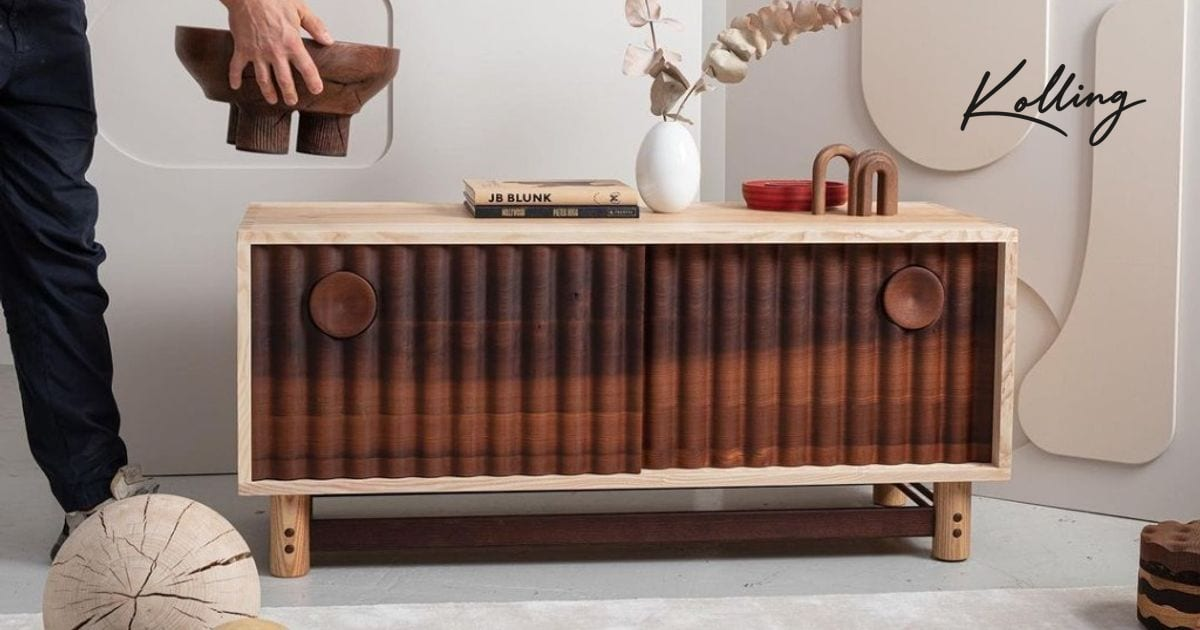
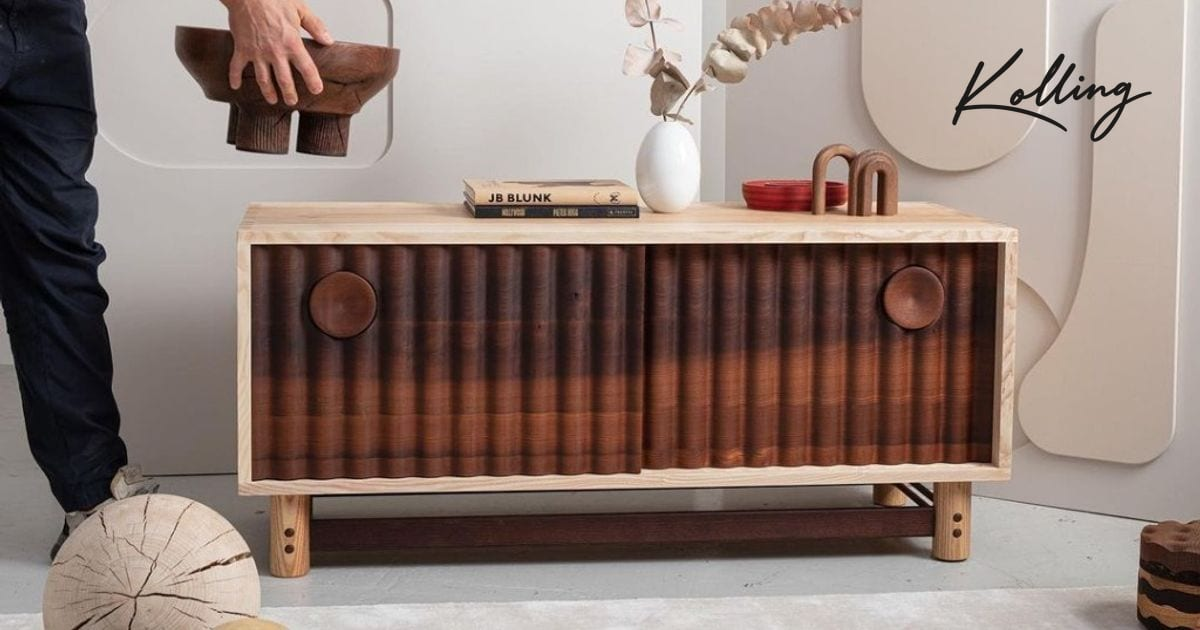
fix: paginakop sticky met gecentreerd woordmerk

Changed region(s): [[0.7708, 0.0905, 0.9558, 0.2413]]

diff --git a/src/design/tokens.gegenereerd.ts b/src/design/tokens.gegenereerd.ts
@@ -282,7 +282,6 @@ export const tokens: readonly Token[] = [
   { naam: 'navigatie-voorgrond-rust', pad: 'navigatie.voorgrond-rust', laag: 'componenten', waarde: "#4a4844" },
   { naam: 'navigatie-voorgrond-gedimd', pad: 'navigatie.voorgrond-gedimd', laag: 'componenten', waarde: "#4a4844" },
   { naam: 'navigatie-lijn', pad: 'navigatie.lijn', laag: 'componenten', waarde: "#e3e0d9" },
-  { naam: 'navigatie-laag', pad: 'navigatie.laag', laag: 'componenten', waarde: "10" },
   { naam: 'navigatie-indicator-afstand', pad: 'navigatie.indicator-afstand', laag: 'componenten', waarde: "0.25rem" },
   { naam: 'navigatie-indicator-dikte', pad: 'navigatie.indicator-dikte', laag: 'componenten', waarde: "1px" },
   { naam: 'navigatie-lijn-actief', pad: 'navigatie.lijn-actief', laag: 'componenten', waarde: "#1b1a18" },
@@ -297,9 +296,17 @@ export const tokens: readonly Token[] = [
   { naam: 'pagina-blok-ruimte', pad: 'pagina.blok-ruimte', laag: 'componenten', waarde: "2rem" },
   { naam: 'pagina-blok-ruimte-breed', pad: 'pagina.blok-ruimte-breed', laag: 'componenten', waarde: "1rem" },
   { naam: 'pagina-micro-ruimte', pad: 'pagina.micro-ruimte', laag: 'componenten', waarde: "1.5rem" },
-  { naam: 'pagina-kopruimte-breed', pad: 'pagina.kopruimte-breed', laag: 'componenten', waarde: "2rem" },
-  { naam: 'merk-hoogte', pad: 'merk.hoogte', laag: 'componenten', waarde: "2.1875rem" },
-  { naam: 'merk-hoogte-breed', pad: 'merk.hoogte-breed', laag: 'componenten', waarde: "2.5rem" },
+  { naam: 'merk-hoogte', pad: 'merk.hoogte', laag: 'componenten', waarde: "1.375rem" },
+  { naam: 'merk-hoogte-breed', pad: 'merk.hoogte-breed', laag: 'componenten', waarde: "1.75rem" },
+  { naam: 'kop-padding-blok', pad: 'kop.padding-blok', laag: 'componenten', waarde: "1.25rem" },
+  { naam: 'kop-kolom-ruimte', pad: 'kop.kolom-ruimte', laag: 'componenten', waarde: "1.5rem" },
+  { naam: 'kop-hoogte', pad: 'kop.hoogte', laag: 'componenten', waarde: "calc(1.375rem + 1.25rem * 2)" },
+  { naam: 'kop-hoogte-breed', pad: 'kop.hoogte-breed', laag: 'componenten', waarde: "calc(1.75rem + 1.25rem * 2)" },
+  { naam: 'kop-drempel', pad: 'kop.drempel', laag: 'componenten', waarde: "8px" },
+  { naam: 'kop-laag', pad: 'kop.laag', laag: 'componenten', waarde: "10" },
+  { naam: 'kop-achtergrond', pad: 'kop.achtergrond', laag: 'componenten', waarde: "#faf9f7" },
+  { naam: 'kop-lijn', pad: 'kop.lijn', laag: 'componenten', waarde: "#e3e0d9" },
+  { naam: 'kop-lijn-dikte', pad: 'kop.lijn-dikte', laag: 'componenten', waarde: "1px" },
   { naam: 'statement-cap', pad: 'statement.cap', laag: 'componenten', waarde: "8.9cqi" },
   { naam: 'statement-cap-breed', pad: 'statement.cap-breed', laag: 'componenten', waarde: "7.4cqi" },
   { naam: 'statement-cap-naast-beeld', pad: 'statement.cap-naast-beeld', laag: 'componenten', waarde: "4.4cqi" },

diff --git a/src/styles/tokens.css b/src/styles/tokens.css
@@ -123,8 +123,8 @@
   --navigatie-hoogte: 5rem;
   --navigatie-aanraakdoel: 2.75rem;
   --link-onderstreping-afstand: 0.15em;
-  --merk-hoogte: 2.1875rem;
-  --merk-hoogte-breed: 2.5rem;
+  --merk-hoogte: 1.375rem;
+  --merk-hoogte-breed: 1.75rem;
   --statement-cap: 8.9cqi;
   --statement-cap-breed: 7.4cqi;
   --statement-cap-naast-beeld: 4.4cqi;
@@ -248,7 +248,6 @@
   --menu-trap: var(--k-beweging-trap-snel);
   --navigatie-spatiering: var(--k-letter-spatiering-kapitaal);
   --navigatie-ruimte: var(--k-ruimte-6);
-  --navigatie-laag: var(--k-laag-kop);
   --navigatie-indicator-afstand: var(--k-ruimte-1);
   --navigatie-indicator-dikte: var(--k-rand-haarlijn);
   --link-onderstreping-dikte: var(--k-rand-haarlijn);
@@ -257,7 +256,13 @@
   --pagina-blok-ruimte: var(--k-ruimte-8);
   --pagina-blok-ruimte-breed: var(--k-ruimte-4);
   --pagina-micro-ruimte: var(--k-ruimte-6);
-  --pagina-kopruimte-breed: var(--k-ruimte-8);
+  --kop-padding-blok: var(--k-ruimte-5);
+  --kop-kolom-ruimte: var(--k-ruimte-6);
+  --kop-hoogte: calc(var(--merk-hoogte) + var(--k-ruimte-5) * 2);
+  --kop-hoogte-breed: calc(var(--merk-hoogte-breed) + var(--k-ruimte-5) * 2);
+  --kop-drempel: var(--k-beweging-afstand-sm);
+  --kop-laag: var(--k-laag-kop);
+  --kop-lijn-dikte: var(--k-rand-haarlijn);
   --beeld-achtergrond: var(--kleur-achtergrond-tint);
   --bijschrift-grootte: var(--tekst-label-grootte);
   --bijschrift-spatiering: var(--tekst-label-spatiering);
@@ -298,4 +303,6 @@
   --navigatie-overgang: var(--beweging-menu);
   --link-onderstreping-kleur: var(--kleur-lijn);
   --link-onderstreping-kleur-hover: var(--kleur-voorgrond);
+  --kop-achtergrond: var(--kleur-achtergrond);
+  --kop-lijn: var(--kleur-lijn);
 }

diff --git a/src/styles/basis.css b/src/styles/basis.css
@@ -75,7 +75,9 @@ body {
   overscroll-behavior: none;
 }
 
-/* Elke pagina is hetzelfde scherm: koprij, middelste rij, contactrij. */
+/* Elke pagina is hetzelfde scherm: koprij, middelste rij, contactrij. De
+   koprij draagt zelf haar bovenpadding, zodat ze bij het scrollen op haar
+   rustpositie blijft plakken in plaats van naar de bovenrand te verspringen. */
 .pagina {
   display: grid;
   grid-template-rows: auto 1fr auto;
@@ -84,12 +86,14 @@ body {
   inline-size: 100%;
   max-inline-size: var(--maat-container);
   margin-inline: auto;
-  padding: var(--pagina-padding);
+  padding-inline: var(--pagina-padding);
+  padding-block-end: var(--pagina-padding);
 }
 
 @media (min-width: 48rem) {
   .pagina {
-    padding: var(--pagina-padding-breed);
+    padding-inline: var(--pagina-padding-breed);
+    padding-block-end: var(--pagina-padding-breed);
   }
 }
 
@@ -103,6 +107,17 @@ body {
   color-scheme: light;
   -webkit-text-size-adjust: 100%;
   text-size-adjust: 100%;
+}
+
+/* Een ankerlink landt onder de sticky kop, niet erachter. */
+html {
+  scroll-padding-block-start: var(--kop-hoogte);
+}
+
+@media (min-width: 48rem) {
+  html {
+    scroll-padding-block-start: var(--kop-hoogte-breed);
+  }
 }
 
 body {

diff --git a/docs/review/COMING-SOON.md b/docs/review/COMING-SOON.md
@@ -411,6 +411,23 @@ Het woordmerk krijgt voorlopig `filter: invert(1)` op het zwarte PNG, uitsluiten
 
 `voorgrond-subtiel` gaat van de koppen af: de drie `<h2>` in de contactrij en de titels van de bijschriften krijgen `voorgrond-gedempt` (8,67 in het licht, 7,62 in het donker). De microregel houdt `voorgrond-subtiel`, want dat is de enige plek waar de token echt decoratief is. Het lichte thema wordt daarmee op twee plekken donkerder dan nu; dat is een bewuste wijziging en geen gevolg van het donkere thema.
 
+## Sticky paginakop met gecentreerd woordmerk
+
+De kop is nu `position: sticky` op elke breedte, draagt zelf zijn padding van `ruimte.5` boven en onder, en krijgt na acht pixels scrollen een dekkende band met haarlijn over de volle vensterbreedte. Gemeten kophoogte: 62 px onder 48 rem en 68 px daarboven, met het woordmerk op 22 respectievelijk 28 px en overal exact 20 px ruimte boven en onder. Gecontroleerd op 320 × 568, 390 × 844, 768 × 1024, 844 × 390, 1440 × 900 en 1920 × 1080: geen overloop, de linkerrand van het woordmerk op de containerrand en de klok op dezelfde rechterrand als de microregel. Het geopende menu zet het woordmerk op exact dezelfde plek, tot op de pixel.
+
+`woordmerk.png` was 480 × 240 met de inkt op 449 × 212, negentien pixels van links en vijfentwintig van boven. Dat zette het woordmerk scheef in elk kader waarin het verticaal gecentreerd stond. `scripts/maak-og.mjs` snijdt de zwarte randen nu van het masker; het bestand is 480 × 225 en de inkt vult het geheel. Het OG-beeld en het favicon komen uit datzelfde masker en zijn mee opnieuw gegenereerd.
+
+Afwijkingen van de opdracht:
+
+1. **De token heet `kop.hoogte`, niet `maat.kop.hoogte`.** De `maat.*`-groep is semantisch en mag alleen naar primitieven verwijzen, terwijl de kophoogte uit `merk.hoogte` volgt. Als componenttoken blijft de hoogte vanzelf kloppen: `calc(var(--merk-hoogte) + var(--k-ruimte-5) * 2)`. Er zijn twee waarden nodig, want het woordmerk verspringt op 48 rem.
+2. **De padding links en rechts blijft `pagina.padding`.** `maat.container-inline` is 76 rem, de tekstbreedte; als padding zou die het scherm vullen. Dezelfde afwijking als punt 1 hierboven, uit de eerste review.
+3. **De rij is zo hoog als het woordmerk.** Het aanraakdoel van 44 px van de knop naar het menu zou de kop anders 84 px hoog maken. Het overschot valt nu gelijk verdeeld in de padding, waarmee het doel 44 px blijft en de kop zijn hoogte houdt.
+4. **Het woordmerk is kleiner dan het was.** De inkt was 31 px op mobiel en 35 px op desktop; nu is dat 22 en 28 px, de maten uit de opdracht. Terug is één waarde in `merk.hoogte`.
+5. **Geen `data-gescrold`-terugval.** Die vraagt een scroll-listener, en op deze branch kan geen enkele pagina scrollen. De terugval hoort bij de eerste pagina die dat wel doet. `animation-timeline: scroll(root)` zelf werkt in Chrome, Safari en Firefox.
+6. **De animatie staat in longhands.** Als `animation`-shorthand plus `animation-timeline` voegt de minifier beide samen tot `animation: linear both kop-dekt scroll(root)`, en die regel kent de browser niet, waarna de band nooit verschijnt.
+7. **Geen themaschakelaar.** Die bestaat op deze branch niet, dus de koprij heeft vier cellen: woordmerk, navigatie, klok en de knop naar het menu.
+8. **Twee tokens vervallen.** `pagina.kopruimte-breed` gaf de kop op brede schermen extra ruimte eronder en gaat niet samen met gelijke padding boven en onder. `navigatie.laag` was ongebruikt en is opgevolgd door `kop.laag`.
+
 ## Wat open staat
 
 1. **Woordmerk als SVG.** Het huidige `d-logo.svg` is een export met een ingesloten bitmap van 1065 px breed en een luminantiemasker. `pnpm og` rendert daaruit `woordmerk.png` op 480 px, het OG-beeld en het favicon. Een echte outline-SVG maakt die stap onnodig en is scherper op elk formaat.
